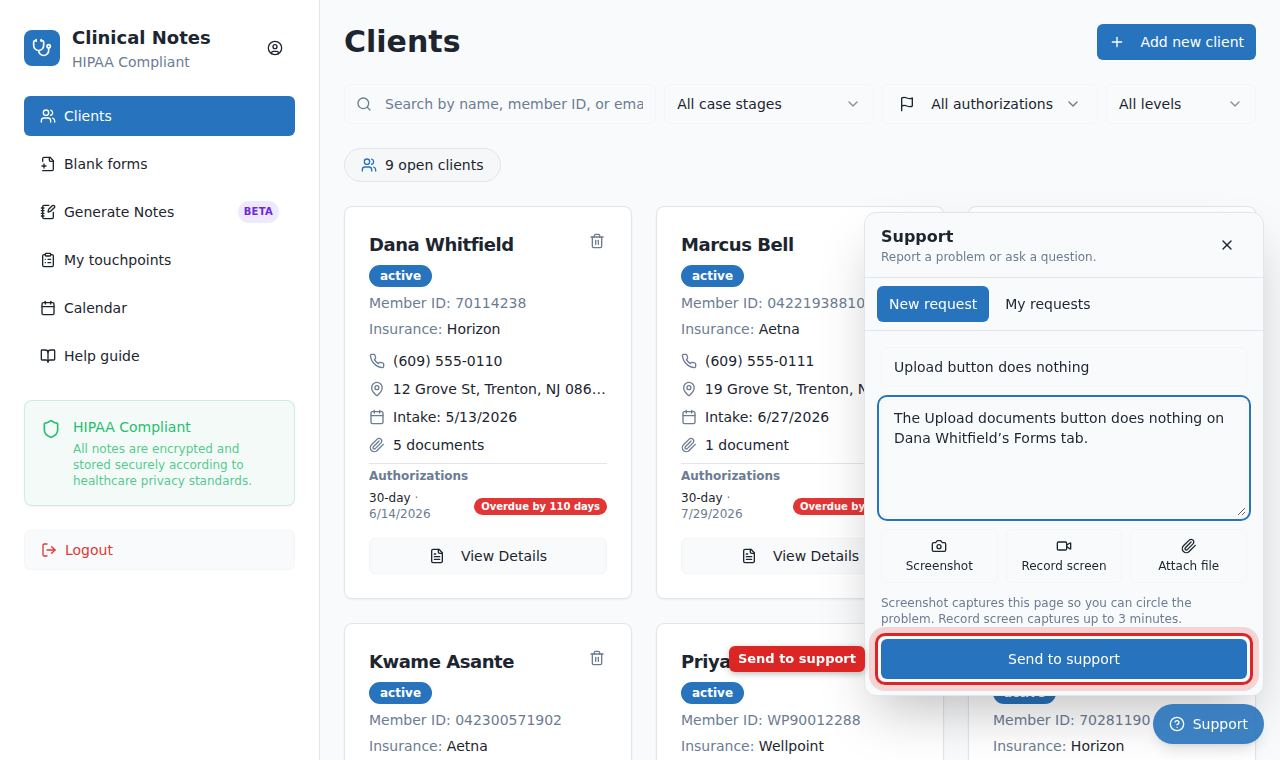
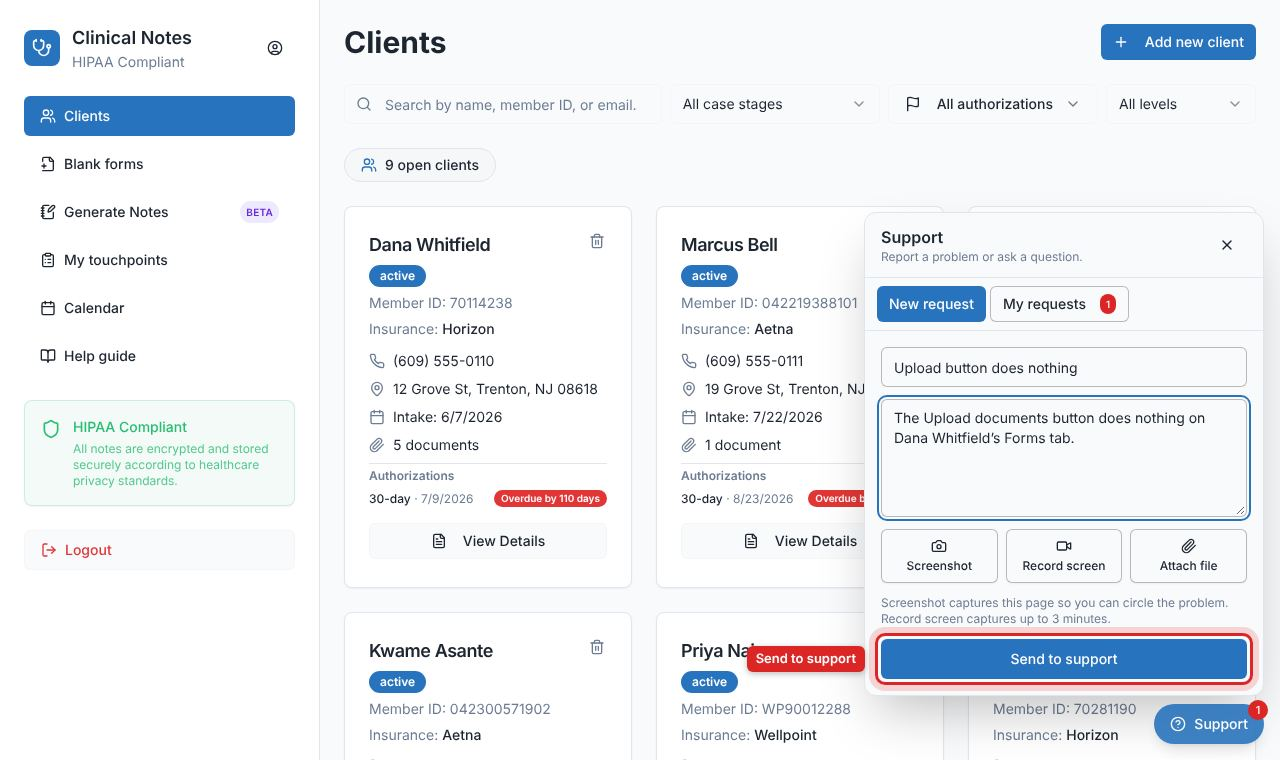
Support: firmer borders, and ask before sending with nothing attached
The tabs, fields and attachment buttons get a darker border so they read
as controls. Sending with no screenshot, recording or file asks first:
Yes, add an attachment goes back to the request; No, send as is sends.
Help guide gains the step, with new screenshots.

Claude-Session: https://claude.ai/code/session_01Rc3DZRzwXf5gmPM6paLQkr

diff --git a/src/components/support/SupportButton.tsx b/src/components/support/SupportButton.tsx
@@ -51,6 +51,9 @@ import {
 } from '@/lib/support';
 
 /** Longest recording, so a forgotten one does not run on. */
+/** A border dark enough that fields and buttons read as fields and buttons. */
+const FIRM = 'border-foreground/30';
+
 const MAX_RECORDING_MS = 3 * 60_000;
 
 interface Pending {
@@ -71,6 +74,7 @@ export const SupportButton: React.FC = () => {
   const [message, setMessage] = useState('');
   const [pending, setPending] = useState<Pending[]>([]);
   const [sending, setSending] = useState(false);
+  const [askAttach, setAskAttach] = useState(false);
   const [capturing, setCapturing] = useState(false);
   const [markup, setMarkup] = useState<HTMLCanvasElement | null>(null);
   const [recording, setRecording] = useState(false);
@@ -243,13 +247,18 @@ export const SupportButton: React.FC = () => {
     }
   };
 
-  const send = async () => {
+  /** asIs: the person chose to send without a screenshot, recording or file. */
+  const send = async (asIs = false) => {
     if (!title.trim()) {
       toast({ title: 'Enter a title', variant: 'destructive' });
       return;
     }
     if (!message.trim()) {
       toast({ title: 'Describe the issue before sending', variant: 'destructive' });
+      return;
+    }
+    if (!pending.length && !asIs) {
+      setAskAttach(true);
       return;
     }
     setSending(true);
@@ -399,6 +408,32 @@ export const SupportButton: React.FC = () => {
         />
       )}
 
+      {/* Nothing attached: a screenshot or file usually shows the problem
+          faster than words, so offer it once before sending. */}
+      <Dialog open={askAttach} onOpenChange={setAskAttach}>
+        <DialogContent className="z-[100] max-w-sm">
+          <DialogHeader>
+            <DialogTitle>Send without an attachment?</DialogTitle>
+            <DialogDescription>
+              A screenshot, screen recording or file helps support see the problem.
+            </DialogDescription>
+          </DialogHeader>
+          <DialogFooter className="gap-2 sm:gap-0">
+            <Button
+              variant="outline"
+              className={FIRM}
+              onClick={() => {
+                setAskAttach(false);
+                void send(true);
+              }}
+            >
+              No, send as is
+            </Button>
+            <Button onClick={() => setAskAttach(false)}>Yes, add an attachment</Button>
+          </DialogFooter>
+        </DialogContent>
+      </Dialog>
+
       <div data-support-widget className="fixed bottom-4 right-4 z-[90] flex flex-col items-end gap-2">
         {open && (
           <div className="flex max-h-[min(640px,calc(100vh-6rem))] w-[min(400px,calc(100vw-2rem))] flex-col overflow-hidden rounded-xl border bg-background shadow-2xl">
@@ -421,10 +456,10 @@ export const SupportButton: React.FC = () => {
 
             {!viewing && (
               <div className="flex gap-1 border-b px-3 py-2">
-                <Button size="sm" variant={tab === 'new' ? 'default' : 'ghost'} onClick={() => setTab('new')}>
+                <Button size="sm" variant={tab === 'new' ? 'default' : 'outline'} className={tab === 'new' ? '' : FIRM} onClick={() => setTab('new')}>
                   New request
                 </Button>
-                <Button size="sm" variant={tab === 'mine' ? 'default' : 'ghost'} onClick={() => setTab('mine')}>
+                <Button size="sm" variant={tab === 'mine' ? 'default' : 'outline'} className={tab === 'mine' ? '' : FIRM} onClick={() => setTab('mine')}>
                   My requests
                   {unread > 0 && (
                     <span className="ml-1.5 rounded-full bg-red-600 px-1.5 text-[10px] text-white">{unread}</span>
@@ -450,6 +485,7 @@ export const SupportButton: React.FC = () => {
                     placeholder="Title"
                     aria-label="Title"
                     maxLength={100}
+                    className={FIRM}
                   />
                   <Textarea
                     aria-label="Description"
@@ -458,17 +494,18 @@ export const SupportButton: React.FC = () => {
                     placeholder="Describe the issue. What were you trying to do, and what happened?"
                     rows={5}
                     maxLength={4000}
+                    className={FIRM}
                   />
                   <div className="grid grid-cols-3 gap-2">
-                    <Button variant="outline" size="sm" className="h-auto flex-col gap-1 py-2" onClick={() => void screenshot()} disabled={capturing}>
+                    <Button variant="outline" size="sm" className={`h-auto flex-col gap-1 py-2 shadow-sm ${FIRM}`} onClick={() => void screenshot()} disabled={capturing}>
                       {capturing ? <Loader2 className="h-4 w-4 animate-spin" /> : <Camera className="h-4 w-4" />}
                       <span className="text-xs">Screenshot</span>
                     </Button>
-                    <Button variant="outline" size="sm" className="h-auto flex-col gap-1 py-2" onClick={() => void startRecording()}>
+                    <Button variant="outline" size="sm" className={`h-auto flex-col gap-1 py-2 shadow-sm ${FIRM}`} onClick={() => void startRecording()}>
                       <Video className="h-4 w-4" />
                       <span className="text-xs">Record screen</span>
                     </Button>
-                    <Button variant="outline" size="sm" className="h-auto flex-col gap-1 py-2" onClick={() => fileInput.current?.click()}>
+                    <Button variant="outline" size="sm" className={`h-auto flex-col gap-1 py-2 shadow-sm ${FIRM}`} onClick={() => fileInput.current?.click()}>
                       <Paperclip className="h-4 w-4" />
                       <span className="text-xs">Attach file</span>
                     </Button>

diff --git a/src/lib/helpGuides.ts b/src/lib/helpGuides.ts
@@ -466,6 +466,7 @@ export const GUIDES: Guide[] = [
       s('Describe the problem', 'Enter a short title, then describe what you were trying to do and what happened.'),
       s('Show the problem', 'Select Screenshot to circle the problem on the page, Record screen to record up to 3 minutes, or Attach file.'),
       s('Send it', 'Select Send to support. Your requests are listed by title under My requests, where replies also appear.'),
+      s('Add an attachment or send as is', 'If nothing is attached, you are asked first. Select Yes, add an attachment to go back to your request, or No, send as is.'),
     ],
   },  {
     id: 'support-reply', section: 'Getting started', title: 'Read a reply from support', audience: 'everyone', minutes: 1,
